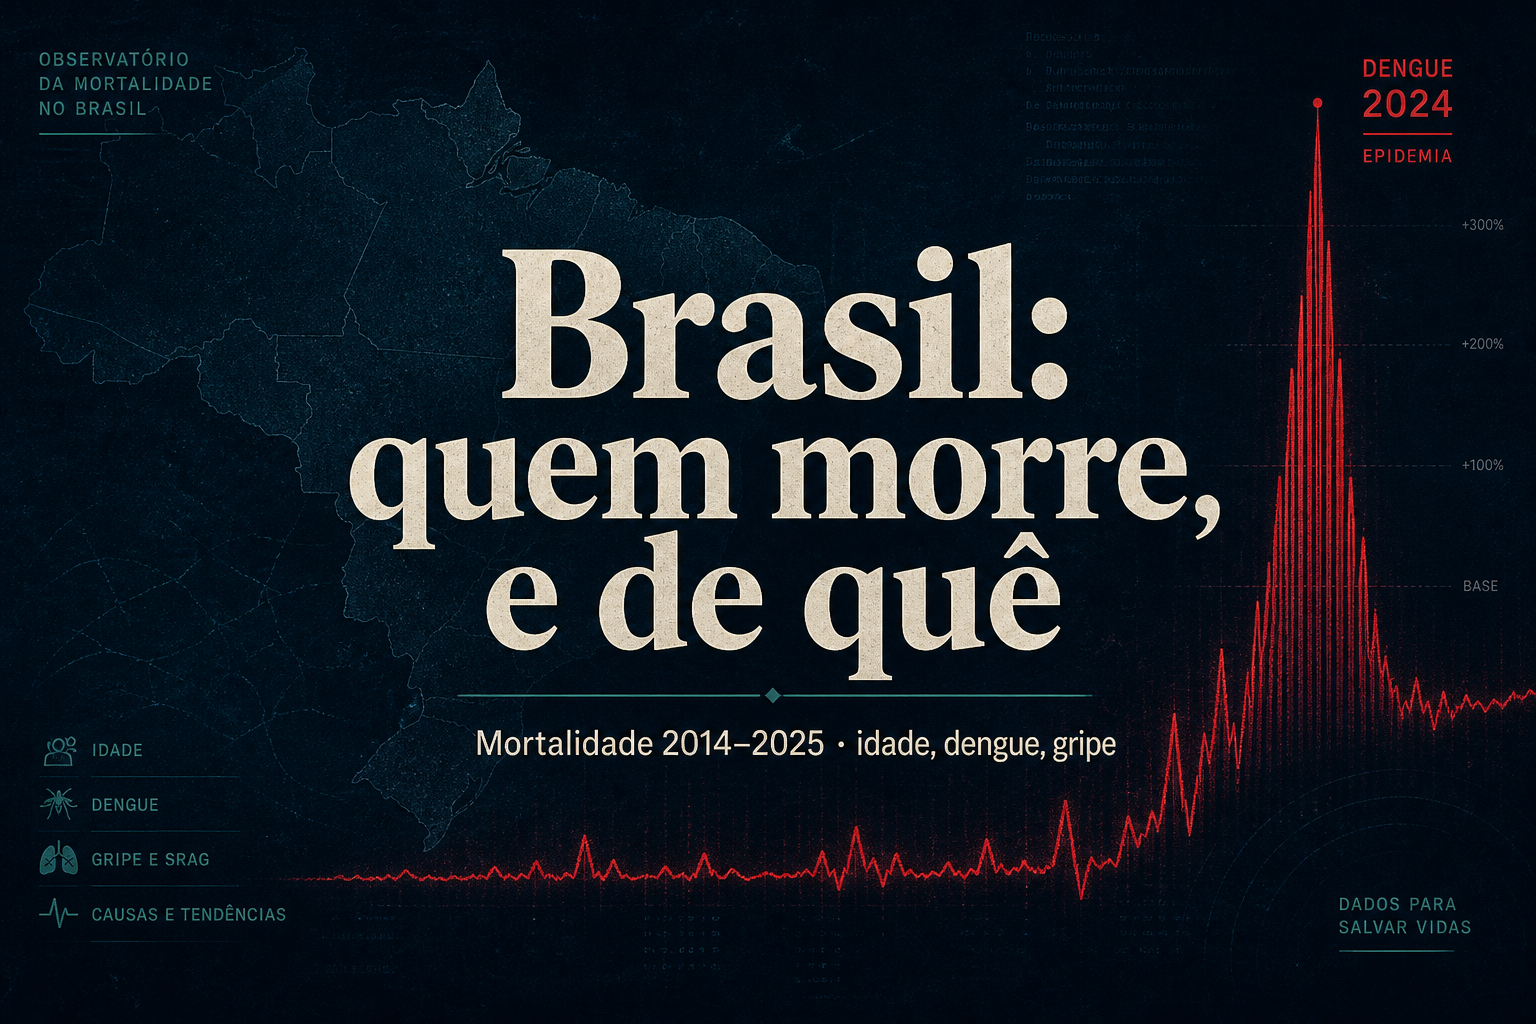
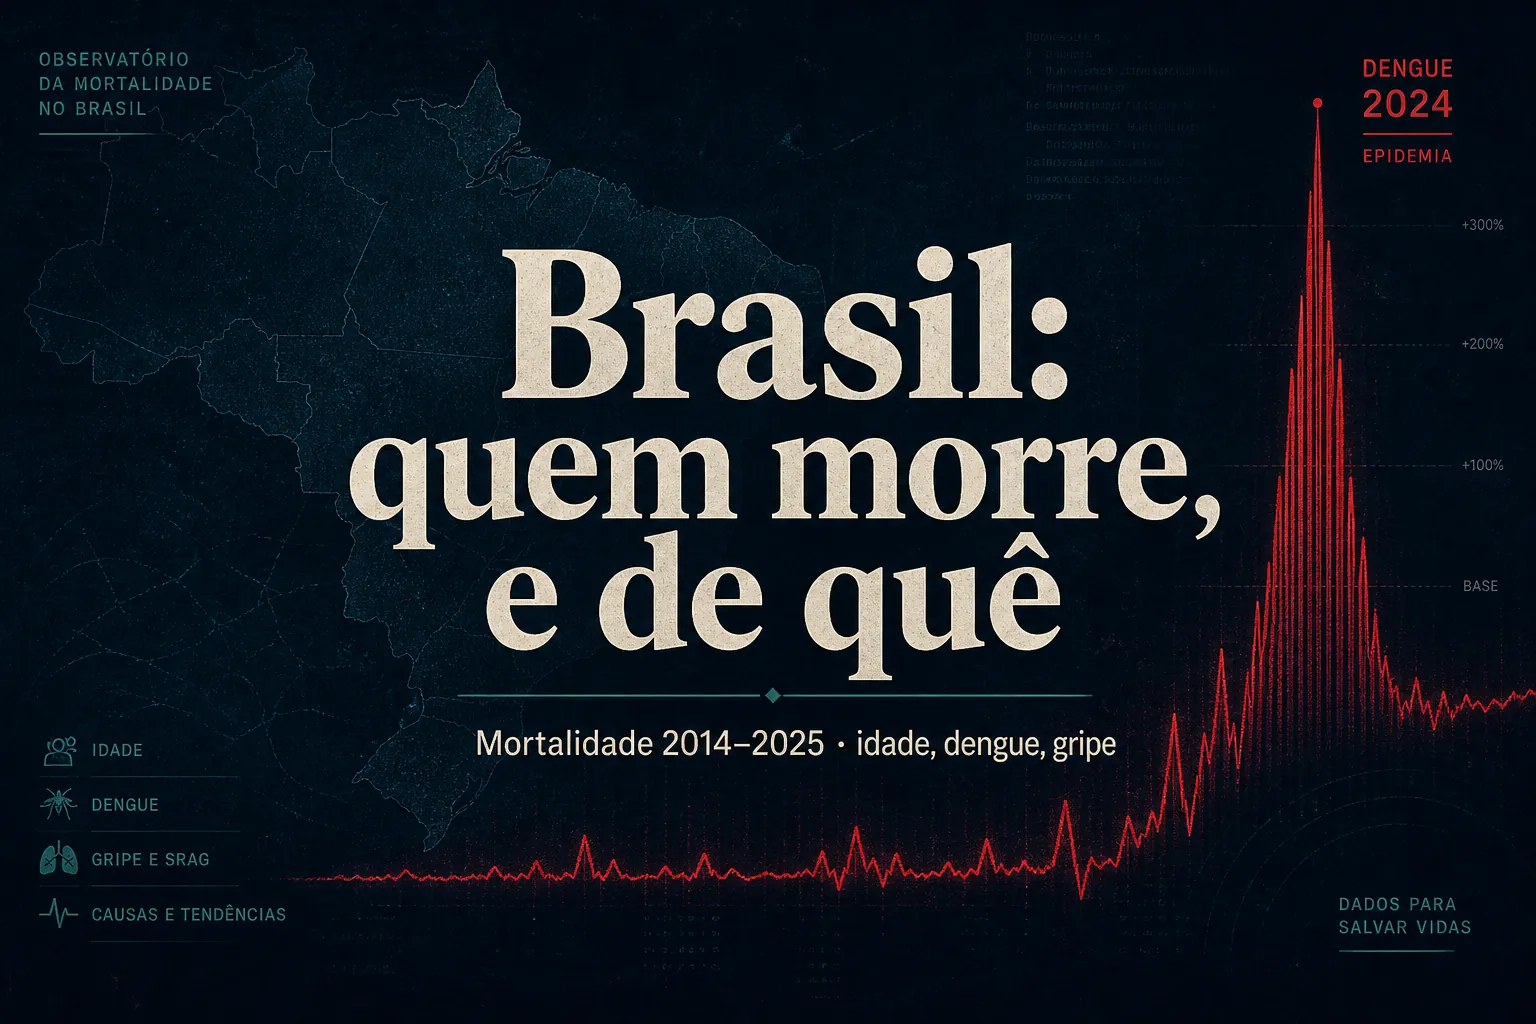
Adiciona compartilhamento social, go-top e rodapé com crédito.
Atualiza meta OG/Twitter para o hero em artigos/ e inclui links para Artes do Sul e Observatório Civil.

diff --git a/index.html b/index.html
@@ -7,9 +7,18 @@
   <meta name="description" content="Dashboard de mortalidade por faixa etária, gripe e dengue no Brasil. SIM/DATASUS, Registro Civil e vigilância SVS.">
   <meta name="theme-color" content="#0f1c2e">
   <link rel="canonical" href="https://serie-demografica.vercel.app/">
+  <meta property="og:type" content="website">
+  <meta property="og:url" content="https://serie-demografica.vercel.app/">
   <meta property="og:title" content="Observatório Demográfico — Mortalidade Brasil (2014–2025)">
-  <meta property="og:description" content="Série histórica de óbitos por idade, gripe e dengue. Dados SIM, ARPEN e SVS.">
-  <meta property="og:image" content="https://serie-demografica.vercel.app/serie_temporal_faixas_etarias.png">
+  <meta property="og:description" content="Série 2014–2025: mortalidade por idade, dengue, gripe, câncer e miocardite. Dados SIM, ARPEN e SVS.">
+  <meta property="og:image" content="https://serie-demografica.vercel.app/artigos/serie-demografica-mortalidade-hero.png">
+  <meta property="og:image:type" content="image/png">
+  <meta property="og:image:width" content="1536">
+  <meta property="og:image:height" content="1024">
+  <meta name="twitter:card" content="summary_large_image">
+  <meta name="twitter:title" content="Observatório Demográfico — Mortalidade Brasil (2014–2025)">
+  <meta name="twitter:description" content="Série 2014–2025: mortalidade por idade, dengue, gripe, câncer e miocardite.">
+  <meta name="twitter:image" content="https://serie-demografica.vercel.app/artigos/serie-demografica-mortalidade-hero.png">
   <link rel="preconnect" href="https://fonts.googleapis.com">
   <link rel="preconnect" href="https://fonts.gstatic.com" crossorigin>
   <link href="https://fonts.googleapis.com/css2?family=Figtree:wght@400;500;600;700&family=Fraunces:opsz,wght@9..144,500;9..144,700&display=swap" rel="stylesheet">
@@ -24,7 +33,9 @@
       --muted: #6b7c8c;
       --line: #d5dee7;
       --teal: #0f766e;
+      --teal-deep: #0b5f59;
       --teal-soft: rgba(15, 118, 110, 0.12);
+      --ok: #0f766e;
       --steel: #1e4d7b;
       --steel-soft: rgba(30, 77, 123, 0.12);
       --crimson: #b42318;
@@ -309,13 +320,102 @@
     .insight p { margin: 0; color: var(--ink-soft); font-size: 0.92rem; }
 
     footer {
-      padding: 2rem 0 3rem;
+      padding: 2rem 0 3.5rem;
       color: var(--muted);
       font-size: 0.85rem;
       border-top: 1px solid var(--line);
       margin-top: 1rem;
     }
-    footer .wrap { display: flex; justify-content: space-between; gap: 1rem; flex-wrap: wrap; }
+    footer .wrap {
+      display: flex;
+      justify-content: space-between;
+      gap: 1.25rem;
+      flex-wrap: wrap;
+      align-items: flex-start;
+    }
+    footer a {
+      color: var(--teal-deep);
+      text-decoration: none;
+      border-bottom: 1px solid transparent;
+      transition: border-color 0.2s, color 0.2s;
+    }
+    footer a:hover { border-bottom-color: var(--teal); color: var(--ink); }
+    footer .credit {
+      font-family: ui-monospace, "Cascadia Code", "Segoe UI Mono", monospace;
+      font-size: 0.82rem;
+      letter-spacing: 0.02em;
+    }
+    footer .credit a { font-weight: 600; }
+    footer .links { display: flex; flex-direction: column; gap: 0.35rem; align-items: flex-end; text-align: right; }
+    footer .sources { margin-top: 0.35rem; font-size: 0.78rem; opacity: 0.85; }
+
+    .share-bar {
+      display: flex;
+      flex-wrap: wrap;
+      align-items: center;
+      gap: 0.55rem;
+      margin-top: 1.35rem;
+    }
+    .share-bar span {
+      font-size: 0.72rem;
+      text-transform: uppercase;
+      letter-spacing: 0.08em;
+      color: var(--muted);
+      font-weight: 600;
+    }
+    .share-btn {
+      display: inline-flex;
+      align-items: center;
+      gap: 0.35rem;
+      padding: 0.4rem 0.75rem;
+      border-radius: 999px;
+      border: 1px solid var(--line);
+      background: var(--surface);
+      color: var(--ink);
+      font-size: 0.78rem;
+      font-weight: 600;
+      text-decoration: none;
+      cursor: pointer;
+      font-family: inherit;
+      box-shadow: 0 1px 0 rgba(16,24,32,0.04);
+      transition: transform 0.15s, border-color 0.15s, background 0.15s;
+    }
+    .share-btn:hover {
+      transform: translateY(-1px);
+      border-color: rgba(14,124,123,0.35);
+      background: #f4fbfb;
+    }
+    .share-btn svg { width: 14px; height: 14px; flex-shrink: 0; }
+    .share-btn.copied { border-color: var(--ok); color: var(--ok); }
+
+    .gotop {
+      position: fixed;
+      right: 1.25rem;
+      bottom: 1.25rem;
+      z-index: 50;
+      width: 46px;
+      height: 46px;
+      border-radius: 50%;
+      border: 1px solid rgba(14,124,123,0.35);
+      background: linear-gradient(160deg, var(--teal), var(--teal-deep));
+      color: #fff;
+      display: grid;
+      place-items: center;
+      cursor: pointer;
+      box-shadow: 0 10px 28px rgba(14,124,123,0.35);
+      opacity: 0;
+      visibility: hidden;
+      transform: translateY(10px);
+      transition: opacity 0.25s, visibility 0.25s, transform 0.25s;
+    }
+    .gotop.is-visible {
+      opacity: 1;
+      visibility: visible;
+      transform: none;
+    }
+    .gotop:hover { filter: brightness(1.06); }
+    .gotop:focus-visible { outline: 2px solid var(--teal); outline-offset: 3px; }
+    .gotop svg { width: 20px; height: 20px; }
 
     @keyframes rise {
       from { opacity: 0; transform: translateY(14px); }
@@ -330,6 +430,8 @@
       .nav { display: none; }
       .chart-box, .chart-box.tall { height: 280px; }
       .hero h1 { max-width: none; }
+      footer .links { align-items: flex-start; text-align: left; }
+      .gotop { right: 1rem; bottom: 1rem; width: 42px; height: 42px; }
     }
   </style>
 </head>
@@ -360,6 +462,29 @@
         <span class="chip">RC/ARPEN 2025 · ev-inference</span>
         <span class="chip warn">Dengue 2024: epidemia histórica</span>
         <span class="chip">Atualizado 05/08/2026</span>
+      </div>
+      <div class="share-bar" aria-label="Compartilhar">
+        <span>Compartilhar</span>
+        <a class="share-btn" id="share-x" href="#" target="_blank" rel="noopener noreferrer" title="Compartilhar no X">
+          <svg viewBox="0 0 24 24" fill="currentColor" aria-hidden="true"><path d="M18.244 2.25h3.308l-7.227 8.26 8.502 11.24H16.17l-4.714-6.231-5.401 6.231H2.74l7.727-8.835L1.254 2.25H8.08l4.253 5.622L18.244 2.25zm-1.161 17.52h1.833L7.084 4.126H5.117L17.083 19.77z"/></svg>
+          X
+        </a>
+        <a class="share-btn" id="share-wa" href="#" target="_blank" rel="noopener noreferrer" title="Compartilhar no WhatsApp">
+          <svg viewBox="0 0 24 24" fill="currentColor" aria-hidden="true"><path d="M17.472 14.382c-.297-.149-1.758-.867-2.03-.967-.273-.099-.471-.148-.67.15-.197.297-.767.966-.94 1.164-.173.199-.347.223-.644.075-.297-.15-1.255-.463-2.39-1.475-.883-.788-1.48-1.761-1.653-2.059-.173-.297-.018-.458.13-.606.134-.133.298-.347.446-.52.149-.174.198-.298.298-.497.099-.198.05-.371-.025-.52-.075-.149-.669-1.612-.916-2.207-.242-.579-.487-.5-.669-.51-.173-.008-.371-.01-.57-.01-.198 0-.52.074-.792.372-.272.297-1.04 1.016-1.04 2.479 0 1.462 1.065 2.875 1.213 3.074.149.198 2.096 3.2 5.077 4.487.709.306 1.262.489 1.694.625.712.227 1.36.195 1.871.118.571-.085 1.758-.719 2.006-1.413.248-.694.248-1.289.173-1.413-.074-.124-.272-.198-.57-.347m-5.421 7.403h-.004a9.87 9.87 0 01-5.031-1.378l-.361-.214-3.741.982.998-3.648-.235-.374a9.86 9.86 0 01-1.51-5.26c.001-5.45 4.436-9.884 9.888-9.884 2.64 0 5.122 1.03 6.988 2.898a9.825 9.825 0 012.893 6.994c-.003 5.45-4.435 9.884-9.885 9.884m8.413-18.297A11.815 11.815 0 0012.05 0C5.495 0 .16 5.335.157 11.892c0 2.096.547 4.142 1.588 5.945L.057 24l6.305-1.654a11.882 11.882 0 005.683 1.448h.005c6.554 0 11.89-5.335 11.893-11.893a11.821 11.821 0 00-3.48-8.413z"/></svg>
+          WhatsApp
+        </a>
+        <a class="share-btn" id="share-li" href="#" target="_blank" rel="noopener noreferrer" title="Compartilhar no LinkedIn">
+          <svg viewBox="0 0 24 24" fill="currentColor" aria-hidden="true"><path d="M20.447 20.452h-3.554v-5.569c0-1.328-.027-3.037-1.852-3.037-1.853 0-2.136 1.445-2.136 2.939v5.667H9.351V9h3.414v1.561h.046c.477-.9 1.637-1.85 3.37-1.85 3.601 0 4.267 2.37 4.267 5.455v6.286zM5.337 7.433a2.062 2.062 0 01-2.063-2.065 2.064 2.064 0 112.063 2.065zm1.782 13.019H3.555V9h3.564v11.452zM22.225 0H1.771C.792 0 0 .774 0 1.729v20.542C0 23.227.792 24 1.771 24h20.451C23.2 24 24 23.227 24 22.271V1.729C24 .774 23.2 0 22.222 0h.003z"/></svg>
+          LinkedIn
+        </a>
+        <a class="share-btn" id="share-fb" href="#" target="_blank" rel="noopener noreferrer" title="Compartilhar no Facebook">
+          <svg viewBox="0 0 24 24" fill="currentColor" aria-hidden="true"><path d="M24 12.073c0-6.627-5.373-12-12-12s-12 5.373-12 12c0 5.99 4.388 10.954 10.125 11.854v-8.385H7.078v-3.47h3.047V9.43c0-3.007 1.792-4.669 4.533-4.669 1.312 0 .678.093 2.541.093v2.797h-1.43c-1.491 0-1.956.925-1.956 1.874v2.25h3.328l-.532 3.47h-2.796v8.385C19.612 23.027 24 18.062 24 12.073z"/></svg>
+          Facebook
+        </a>
+        <button type="button" class="share-btn" id="share-copy" title="Copiar link">
+          <svg viewBox="0 0 24 24" fill="none" stroke="currentColor" stroke-width="2" aria-hidden="true"><rect x="9" y="9" width="13" height="13" rx="2"/><path d="M5 15H4a2 2 0 01-2-2V4a2 2 0 012-2h9a2 2 0 012 2v1"/></svg>
+          Copiar link
+        </button>
       </div>
     </section>
 
@@ -554,12 +679,72 @@
       <div>
         Observatório Demográfico · Brasil 2014–2025<br>
         Pipeline: <code>brazil_deaths_by_age_2014_2025.py</code> · dados em <code>data/</code>
+        <div class="sources">Fontes: DATASUS/SIM · ARPEN · Ministério da Saúde/SVS · IBGE</div>
       </div>
-      <div>Fontes: DATASUS/SIM · ARPEN · Ministério da Saúde/SVS · IBGE</div>
+      <div class="links">
+        <div class="credit">
+          Desenvolvido por
+          <a href="https://www.artesdosul.com/" target="_blank" rel="noopener noreferrer">@artesdosul</a>
+        </div>
+        <a href="https://observatorio-civil-br.vercel.app/" target="_blank" rel="noopener noreferrer">Observatório Civil</a>
+      </div>
     </div>
   </footer>
 
+  <button type="button" class="gotop" id="gotop" aria-label="Voltar ao topo" title="Voltar ao topo">
+    <svg viewBox="0 0 24 24" fill="none" stroke="currentColor" stroke-width="2.2" stroke-linecap="round" stroke-linejoin="round" aria-hidden="true">
+      <path d="M12 19V5M5 12l7-7 7 7"/>
+    </svg>
+  </button>
+
   <script>
+    (function initShareAndGotop() {
+      const SITE_URL = "https://serie-demografica.vercel.app/";
+      const SHARE_TEXT = "Observatório Demográfico — Mortalidade Brasil 2014–2025: idade, dengue, gripe, câncer e miocardite.";
+      const enc = encodeURIComponent;
+
+      const x = document.getElementById("share-x");
+      const wa = document.getElementById("share-wa");
+      const li = document.getElementById("share-li");
+      const fb = document.getElementById("share-fb");
+      const copyBtn = document.getElementById("share-copy");
+      const gotop = document.getElementById("gotop");
+
+      if (x) x.href = `https://twitter.com/intent/tweet?url=${enc(SITE_URL)}&text=${enc(SHARE_TEXT)}`;
+      if (wa) wa.href = `https://wa.me/?text=${enc(SHARE_TEXT + " " + SITE_URL)}`;
+      if (li) li.href = `https://www.linkedin.com/sharing/share-offsite/?url=${enc(SITE_URL)}`;
+      if (fb) fb.href = `https://www.facebook.com/sharer/sharer.php?u=${enc(SITE_URL)}`;
+
+      if (copyBtn) {
+        const labelNode = [...copyBtn.childNodes].find((n) => n.nodeType === Node.TEXT_NODE && n.textContent.trim());
+        const original = (labelNode && labelNode.textContent.trim()) || "Copiar link";
+        copyBtn.addEventListener("click", async () => {
+          try {
+            await navigator.clipboard.writeText(SITE_URL);
+            copyBtn.classList.add("copied");
+            if (labelNode) labelNode.textContent = " Copiado!";
+            setTimeout(() => {
+              copyBtn.classList.remove("copied");
+              if (labelNode) labelNode.textContent = " " + original;
+            }, 1800);
+          } catch (_) {
+            window.prompt("Copie o link:", SITE_URL);
+          }
+        });
+      }
+
+      if (gotop) {
+        const onScroll = () => {
+          gotop.classList.toggle("is-visible", window.scrollY > 420);
+        };
+        window.addEventListener("scroll", onScroll, { passive: true });
+        onScroll();
+        gotop.addEventListener("click", () => {
+          window.scrollTo({ top: 0, behavior: "smooth" });
+        });
+      }
+    })();
+
     const DATA = {
       rates: {
         faixas: ["0-4","5-14","15-19","20-29","30-39","40-59","60-79","80+"],
